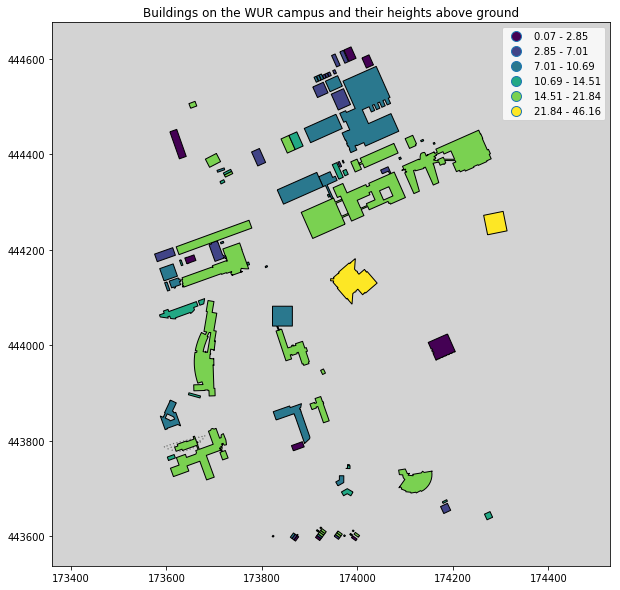
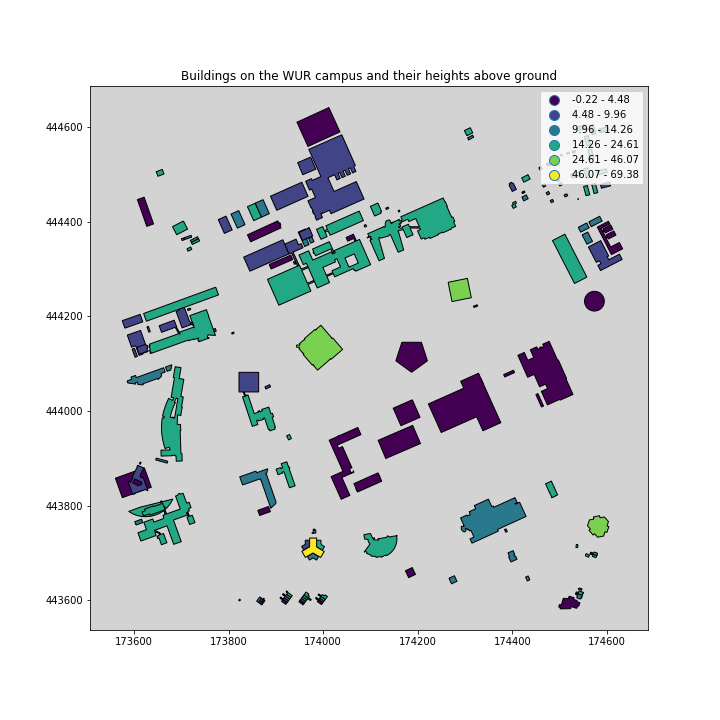
Update module and remove errors

diff --git a/index.html b/index.html
@@ -4,7 +4,7 @@
   <meta http-equiv="Content-Type" content="text/html; charset=utf-8" />
   <meta http-equiv="Content-Style-Type" content="text/css" />
   <meta name="generator" content="pandoc" />
-  <meta name="author" content="Jan Verbesselt, Jorge Mendes de Jesus, Aldo Bergsma, Dainius Masiliunas, David Swinkels" />
+  <meta name="author" content="Jan Verbesselt, Jorge Mendes de Jesus, Aldo Bergsma, Dainius Masiliunas, David Swinkels, Corné Vreugdenhil" />
   <title>Week 3: Lesson 12 Python for raster processing</title>
   <style type="text/css">code{white-space: pre;}</style>
   <meta name="viewport" content="width=device-width, initial-scale=1.0">
@@ -864,15 +864,15 @@
 <body>
 <div id="header">
 <h1 class="title">Week 3: Lesson 12 Python for raster processing</h1>
-<h2 class="author">Jan Verbesselt, Jorge Mendes de Jesus, Aldo Bergsma, Dainius Masiliunas, David Swinkels</h2>
-<h3 class="date">18 januari, 2019</h3>
+<h2 class="author">Jan Verbesselt, Jorge Mendes de Jesus, Aldo Bergsma, Dainius Masiliunas, David Swinkels, Corné Vreugdenhil</h2>
+<h3 class="date">12 November, 2019</h3>
 </div>
 <div id="wrap">
 <div class="container">
 <div class="row row-offcanvas row-offcanvas-right">
 <div class="contents col-xs-12 col-md-10">
 <h1 id="wur-geoscripting"><a href="https://geoscripting-wur.github.io/">WUR Geoscripting</a> <img src="http://www.wur.nl/upload/b43b7095-e452-482a-8969-fed9a50393a8_WUR_RGB_standard.png" alt="WUR logo" style="height: 35px;"/></h1>
-<p><em>Jan Verbesselt, Jorge Mendes de Jesus, Aldo Bergsma, Dainius Masiliunas, David Swinkels, Corné Vreugdenhil</em> - 18 januari, 2019</p>
+<p><em>Jan Verbesselt, Jorge Mendes de Jesus, Aldo Bergsma, Dainius Masiliunas, David Swinkels, Corné Vreugdenhil</em> - 12 November, 2019</p>
 <h1 id="handling-raster-data-with-python">Handling Raster data with Python</h1>
 <h2 id="introduction">Introduction</h2>
 <p>Howdy. Good morning. Today we will be playing with Python packages for spatial raster analysis. Python has some dedicated packages to handle rasters:</p>
@@ -890,10 +890,10 @@
 <button class="source bash toggle btn btn-xs btn-primary">
 <span class="glyphicon glyphicon-chevron-down"></span> bash source
 </button>
-<pre style=""><code class="source bash">conda create -n rasterpython -y python=3 pip spyder rasterio geopandas kealib=1.4.7 matplotlib owslib pysal descartes
+<pre style=""><code class="source bash">conda create -n rasterpython python=3 pip spyder rasterio geopandas kealib matplotlib owslib pysal descartes -y
 conda activate rasterpython
 conda install -c conda-forge rasterstats -y
-conda install kealib=1.4.7 -y
+pip install fiona==1.8.8 -y
 spyder</code></pre>
 </div>
 <p>You should have just started Spyder with the correct conda environment. Did you notice what the code did?</p>
@@ -996,12 +996,12 @@ print(cvg.supportedFormats)</code></pre>
 bbox = (x-500, y-500, x+500, y+500)
 response = wcs.getCoverage(identifier='ahn2_05m_ruw', bbox=bbox, format='GEOTIFF_FLOAT32',
                            crs='urn:ogc:def:crs:EPSG::28992', resx=0.5, resy=0.5)
-with open('./AHN2_05m_DSM.tif', 'wb') as file:
+with open('./data/AHN2_05m_DSM.tif', 'wb') as file:
     file.write(response.read())
 
 response = wcs.getCoverage(identifier='ahn2_05m_int', bbox=bbox, format='GEOTIFF_FLOAT32',
                            crs='urn:ogc:def:crs:EPSG::28992', resx=0.5, resy=0.5)
-with open('./AHN2_05m_DTM.tif', 'wb') as file:
+with open('./data/AHN2_05m_DTM.tif', 'wb') as file:
     file.write(response.read())</code></pre>
 </div>
 <p>Reading the raster data with Rasterio is very straightforward.</p>
@@ -1010,11 +1010,13 @@ with open('./AHN2_05m_DTM.tif', 'wb') as file:
 <span class="glyphicon glyphicon-chevron-down"></span> Python source
 </button>
 <pre style=""><code class="source python">import rasterio
-DSM = rasterio.open("./AHN2_05m_DSM.tif", driver="GTiff")
-DTM = rasterio.open("./AHN2_05m_DTM.tif", driver="GTiff")
+DSM = rasterio.open("./data/AHN2_05m_DSM.tif", driver="GTiff")
+DTM = rasterio.open("./data/AHN2_05m_DTM.tif", driver="GTiff")
 print(DSM.meta)
-print(DTM.meta)</code></pre>
+print(DTM.meta)
+show(DSM, title='Digital Surface Model', cmap='gist_ncar')</code></pre>
 </div>
+<p><img src="./images/DSMpje.png" alt="Water pixels of the Netherlands", width = "60%"></p>
 <p>The metadata shows us everything we need to know about the raster data. It shows the driver, datatype, nodata value, width of raster in cells, height of raster in cells, coordinate system and transformation values. This is very valuable information. We can notice that both of the Rasterio objects only have one raster layer. The raster layers can be read as NumPy arrays from the Rasterio object with the method <code>.read()</code>.</p>
 <div class="row">
 <button class="source Python toggle btn btn-xs btn-primary">
@@ -1036,7 +1038,7 @@ print(DSM.read(1))</code></pre>
 print(type(CHM))
 
 kwargs = DSM.meta # Copy metadata of rasterio.io.DatasetReader
-with rasterio.open('./AHN2_05m_CHM.tif', 'w', **kwargs) as file:
+with rasterio.open('./data/AHN2_05m_CHM.tif', 'w', **kwargs) as file:
     file.write(CHM.astype(rasterio.float32))</code></pre>
 </div>
 <p>The canopy height model gives an indication of the height of trees or buildings. Let's determine the height of individual buildings based on the height raster data. First step is to download building data from the BGT Web Feature Service, that we used yesterday.</p>
@@ -1045,14 +1047,14 @@ with rasterio.open('./AHN2_05m_CHM.tif', 'w', **kwargs) as file:
 <span class="glyphicon glyphicon-chevron-down"></span> Python source
 </button>
 <pre style=""><code class="source python">import geopandas as gpd
-import json
 from owslib.wfs import WebFeatureService
-bgtWfsUrl = 'https://geodata.nationaalgeoregister.nl/beta/bgt/wfs'
-topographicalMapWFS = WebFeatureService(url=bgtWfsUrl, version='2.0.0')
-responseBuildings = topographicalMapWFS.getfeature(typename='bgt:pand', bbox=bbox,
-                                                   maxfeatures=100, outputFormat='json', startindex=0)
-data = json.loads(responseBuildings.read())
-buildingsGDF = gpd.GeoDataFrame.from_features(data['features'])</code></pre>
+WfsUrl = 'https://geodata.nationaalgeoregister.nl/bag/wfs?'
+wfs = WebFeatureService(url=WfsUrl, version='2.0.0')
+layer = list(wfs.contents)[1]
+response = wfs.getfeature(typename=layer, bbox=bbox, outputFormat='application/gml+xml; version=3.2')
+with open('./data/Buildings.gml', 'w') as file:
+    file.write(response.read())
+BuildingsGDF = gpd.read_file('./data/Buildings.gml')</code></pre>
 </div>
 <p>Next step is to perform zonal statistics to get the average height value per building vector. Rasterstats is a specific module for this task. It uses GeoDataFrames and .tif files and outputs <a href="http://geojson.org/">GeoJSON</a>, which is a standard geodata structure.</p>
 <div class="row">
@@ -1060,10 +1062,10 @@ buildingsGDF = gpd.GeoDataFrame.from_features(data['features'])</code></pre>
 <span class="glyphicon glyphicon-chevron-down"></span> Python source
 </button>
 <pre style=""><code class="source python">import rasterstats as rs
-CHMbuildings = rs.zonal_stats(buildingsGDF, "./AHN2_05m_CHM.tif", prefix='CHM_', geojson_out=True)
-buildingsGDF = gpd.GeoDataFrame.from_features(CHMbuildings)
+CHMbuildings = rs.zonal_stats(BuildingsGDF, "./data/AHN2_05m_CHM.tif", prefix='CHM_', geojson_out=True)
+BuildingsGDF = gpd.GeoDataFrame.from_features(CHMbuildings)
 # check the added columns with a prefix 'CHM_'
-print(buildingsGDF['CHM_mean'])</code></pre>
+print(BuildingsGDF['CHM_mean'])</code></pre>
 </div>
 <p>The GeoJSON can be read by GeoPandas, which makes it easy to access and visualize your data. A quick visualization shows us the heights derived from the raster data on the map.</p>
 <div class="row">
@@ -1073,7 +1075,7 @@ print(buildingsGDF['CHM_mean'])</code></pre>
 <pre style=""><code class="source python">import matplotlib.pyplot as plt
 fig, ax = plt.subplots(1, figsize=(10, 10)) # Create one plot with figure size 10 by 10
 ax.set_title('Buildings on the WUR campus and their heights above ground')
-buildingsGDF.plot(ax=ax, column='CHM_mean', scheme='fisher_jenks', k=6, 
+BuildingsGDF.plot(ax=ax, column='CHM_mean', scheme='fisher_jenks', k=6, 
                   cmap=plt.cm.viridis, linewidth=1, edgecolor='black', legend=True)
 ax.set_facecolor("lightgray") # Set background to grey
 plt.axis('equal') # Set equal axis 
@@ -1096,7 +1098,7 @@ kwargs = {'driver': 'GTiff',
           'crs': rasterio.crs.CRS({'init': 'epsg:28992'}),
           'transform': affine.Affine(0.5, 0.0, 173600.0, 0.0, -0.5, 444600.0)}
 # kwargs = DSM.meta # Metadata can be copied from existing file if needed
-with rasterio.open('./AHN2_05m_CHM.tif', 'w', **kwargs) as file:
+with rasterio.open('./data/AHN2_05m_CHM.tif', 'w', **kwargs) as file:
     file.write(CHM.astype(rasterio.float32))</code></pre>
 </div>
 <p>Rasterio developers recommend using GTiff as the driver, but rasterio can write most <a href="https://www.gdal.org/formats_list.html">raster formats from GDAL</a>. <a href="https://github.com/mapbox/rasterio/issues/731">The developers recommend using GeoTiff driver</a> for writing as it is the best-tested and best-supported format. We can open the saved GeoTiff and check if the metadata is the same as we specified when writing data. Opening a file is very straightforward with Rasterio.</p>
@@ -1104,7 +1106,7 @@ with rasterio.open('./AHN2_05m_CHM.tif', 'w', **kwargs) as file:
 <button class="source Python toggle btn btn-xs btn-primary">
 <span class="glyphicon glyphicon-chevron-down"></span> Python source
 </button>
-<pre style=""><code class="source python">CHM = rasterio.open("./AHN2_05m_CHM.tif")
+<pre style=""><code class="source python">CHM = rasterio.open("./data/AHN2_05m_CHM.tif")
 print(CHM.meta)</code></pre>
 </div>
 <h2 id="visualizing-raster-data">Visualizing raster data</h2>
@@ -1132,7 +1134,7 @@ cbar.ax.set_ylabel('Height (m)', rotation=270)
 ax.set_axis_off()
 plt.show()</code></pre>
 </div>
-<p><img src="./images/DSMDTMImage.png" alt="Digital Surface and Terrain Model of WUR Campus", width = "100%"></p>
+<p><img src="./images/DSMgood.png" alt="Digital Surface Model of WUR Campus", width = "100%"></p>
 <p>If you don't like the orange colormap of Matplotlib, it is possible to change to <a href="https://Matplotlib.org/examples/color/colormaps_reference.html">another colormap</a>.</p>
 <p>The second approach with Rasterio only requires one line of code to make a plot. By creating subplots, the figures can be combined.</p>
 <div class="row">
@@ -1153,9 +1155,11 @@ plt.show()</code></pre>
 <span class="glyphicon glyphicon-chevron-down"></span> Python source
 </button>
 <pre style=""><code class="source python">from rasterio.plot import show_hist
-show_hist(DSM, bins=100, lw=0.0, stacked=False, alpha=0.3, title="Histogram DSM")
-show_hist(DTM, bins=100, lw=0.0, stacked=False, alpha=0.3, title="Histogram DTM")
-show_hist(CHM, bins=100, lw=0.0, stacked=False, alpha=0.3, title="Histogram CHM")</code></pre>
+fig, (axdsm, axdtm, axchm) = plt.subplots(1, 3, figsize=(21, 7))
+show_hist(DSM, ax=axdsm, bins=100, lw=0.0, stacked=False, alpha=0.3, title="Histogram DSM")
+show_hist(DTM, ax=axdtm, bins=100, lw=0.0, stacked=False, alpha=0.3, title="Histogram DTM")
+show_hist(CHM, ax=axchm, bins=100, lw=0.0, stacked=False, alpha=0.3, title="Histogram CHM")
+plt.show()</code></pre>
 </div>
 <p><img src="./images/DSMDTMCHMHistogram.png" alt="Histograms of Canopy Height, Digital Surface and Terrain Model of WUR Campus", width = "100%"></p>
 <h1 id="exercise-12">Exercise 12</h1>
